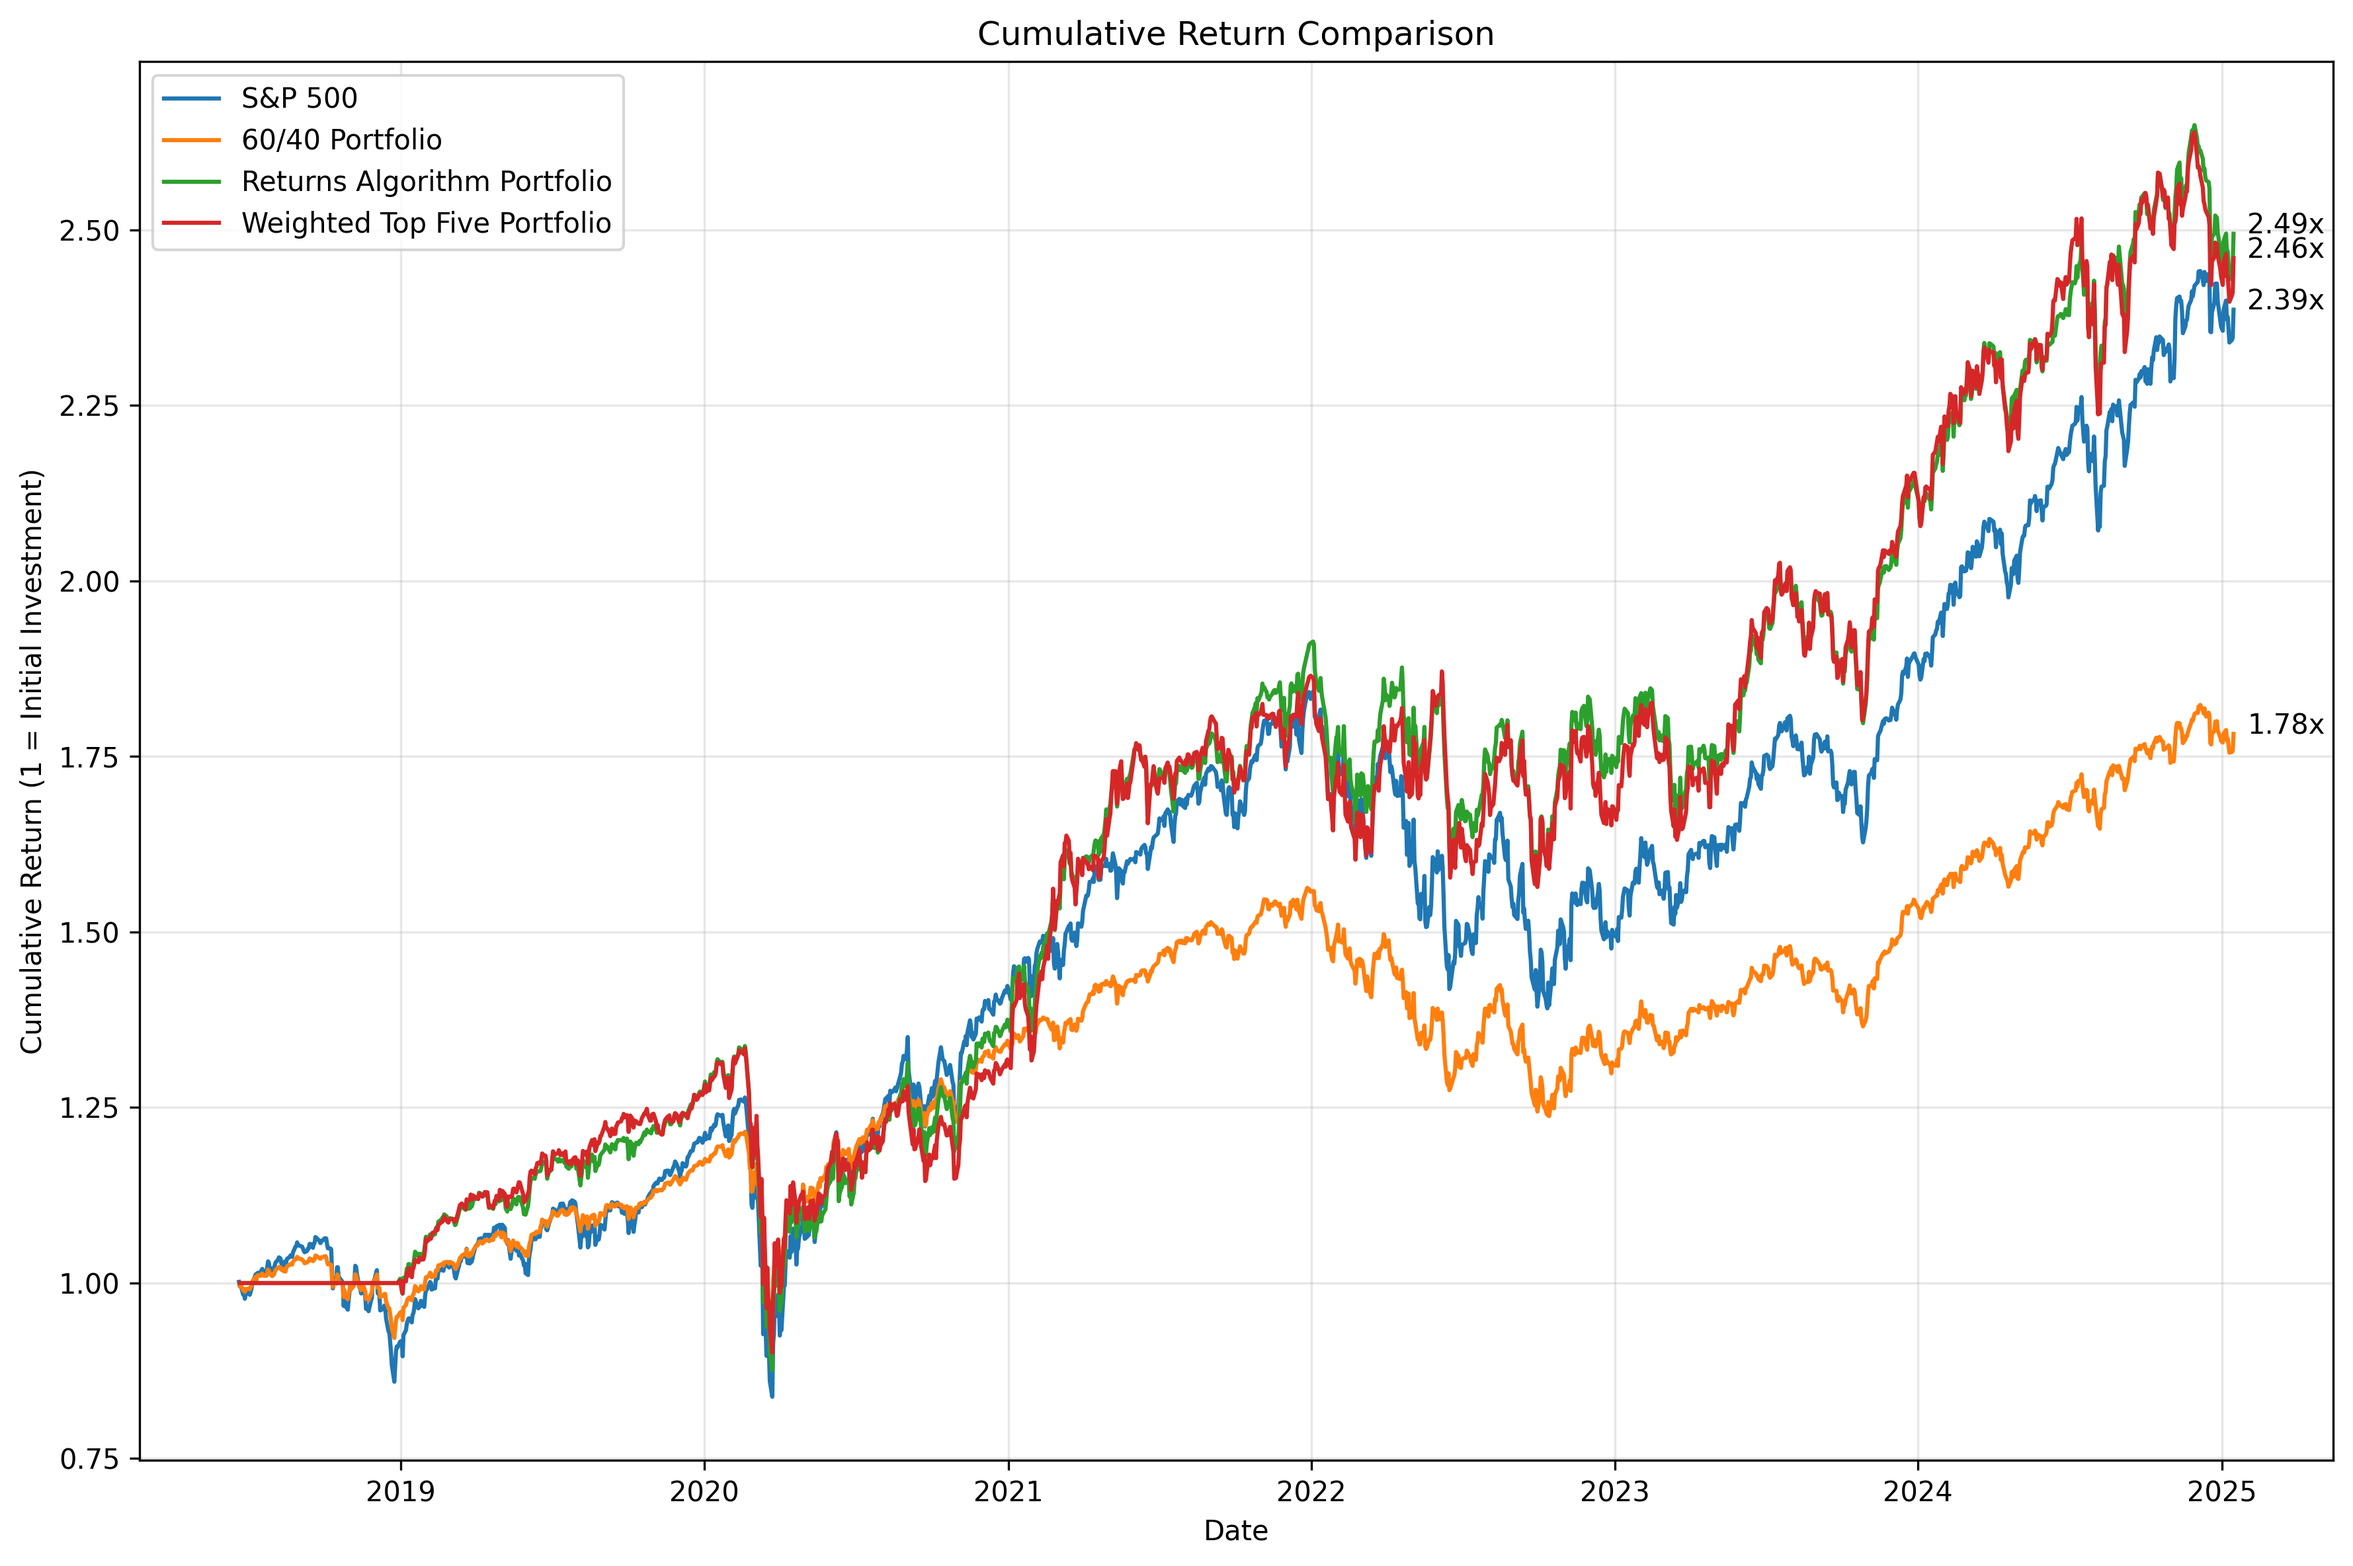
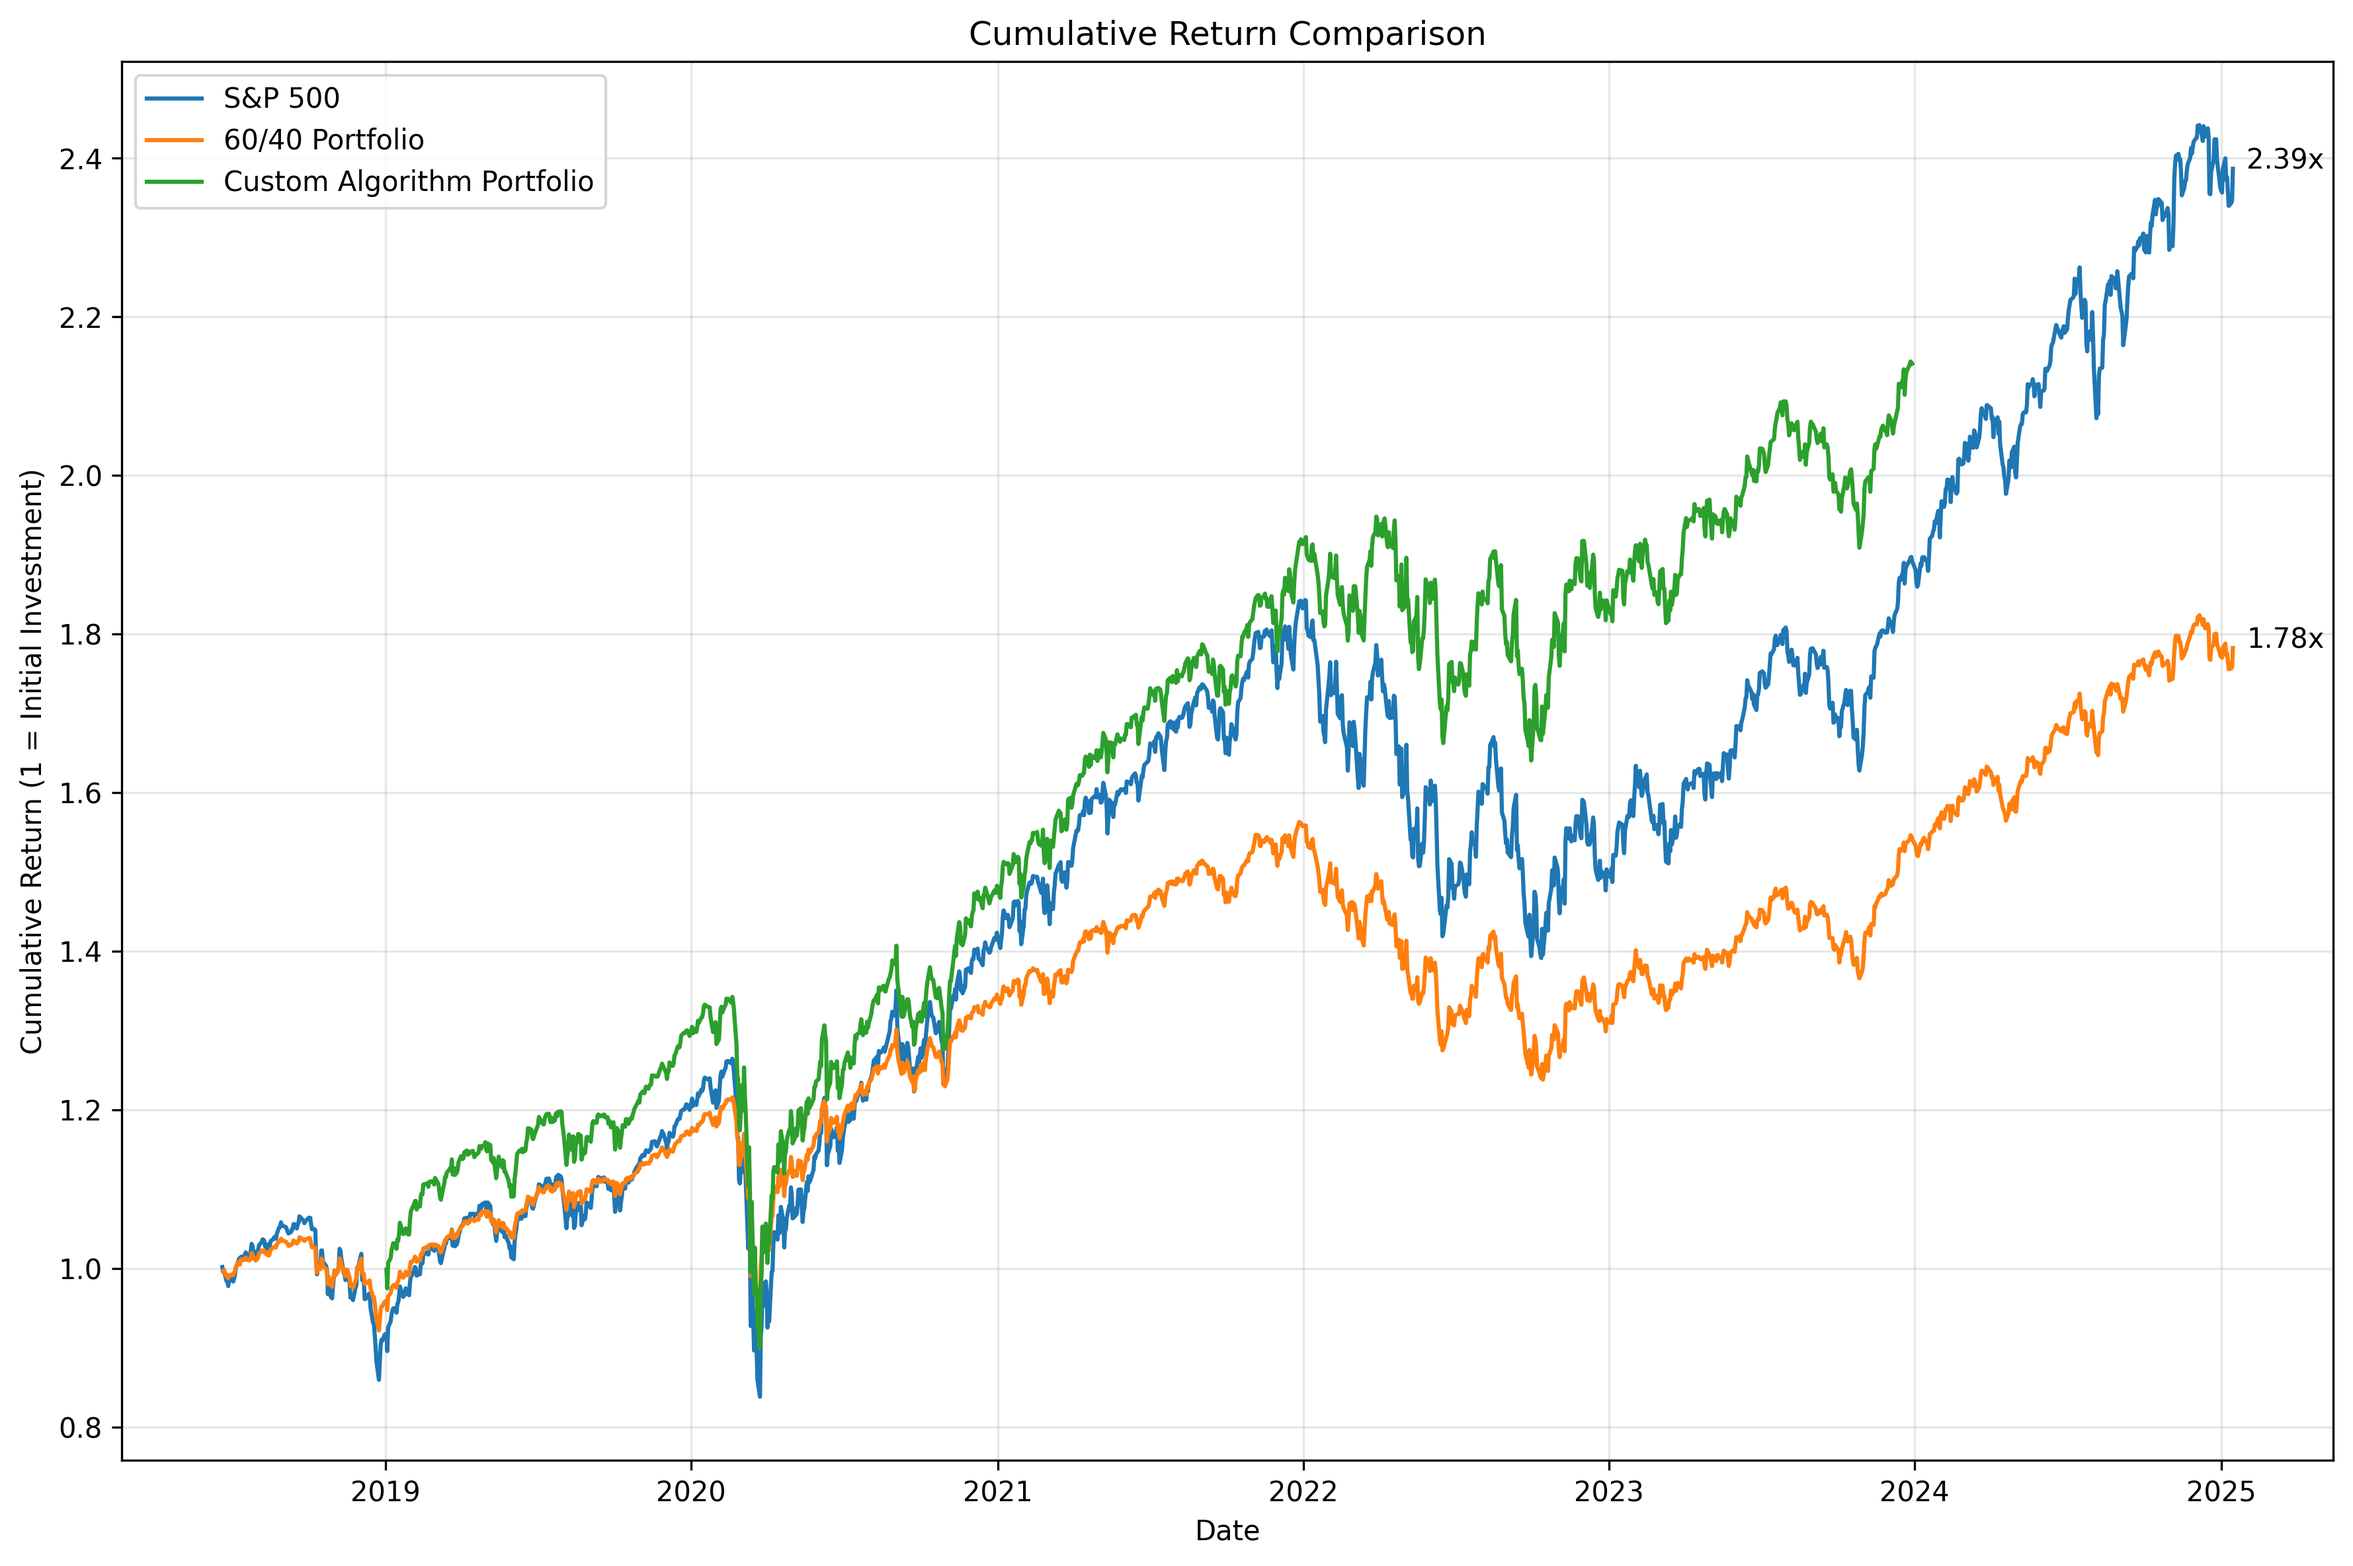
updating to properly output custom algo

diff --git a/run.py b/run.py
@@ -26,8 +26,8 @@ DEFAULT_PATHS = {
     "balanced_returns": "data/processed/balanced_returns.csv",
     # Results
     "models_dir": "results/models",
-    "ca_weights": "results/models/ca_optimal_weights.csv",
-    "ca_returns": "results/models/ca_portfolio_returns.csv",
+    "ca_weights": "results/models/fa_optimal_weights.csv",
+    "ca_returns": "results/models/fa_portfolio_returns.csv",
     "ra_returns": "results/models/returns_algorithm_portfolio.csv",  # Returns algorithm portfolio returns
     "wtf_returns": "results/models/weighted_top_five_portfolio.csv",  # Weighted Top Five portfolio returns
     # Visualizations
@@ -577,15 +577,11 @@ def run_all(args: argparse.Namespace) -> int:
             DEFAULT_PATHS["spy_returns"],
             DEFAULT_PATHS["balanced_returns"],
             DEFAULT_PATHS["ca_returns"],
-            DEFAULT_PATHS["ra_returns"],
-            DEFAULT_PATHS["wtf_returns"],
         ],
         names=[
             "S&P 500",
             "60/40 Portfolio",
             "Custom Algorithm Portfolio",
-            "Returns Algorithm Portfolio",
-            "Weighted Top Five Portfolio",
         ],
         risk_free_rate=getattr(args, "risk_free_rate", 0.02),
         output=DEFAULT_PATHS["analysis_dir"],
@@ -596,11 +592,24 @@ def run_all(args: argparse.Namespace) -> int:
         ("Preprocessing", preprocess, preprocess_args),
         ("Benchmark Generation", generate_benchmarks, benchmark_args),
         ("Custom Algorithm Optimization", optimize, optimize_args),
-        ("Returns Algorithm Optimization", run_returns_algorithm, returns_args),
-        ("Weighted Top Five Optimization", run_weighted_top_five, weighted_args),
         ("Visualization", visualize, visualize_args),
         ("Benchmark Analysis", analyze, analyze_args),
     ]
+
+    # Add optional algorithms if explicitly requested
+    if getattr(args, "include_returns", False):
+        steps.insert(
+            3, ("Returns Algorithm Optimization", run_returns_algorithm, returns_args)
+        )
+        analyze_args.files.append(DEFAULT_PATHS["ra_returns"])
+        analyze_args.names.append("Returns Algorithm Portfolio")
+
+    if getattr(args, "include_weighted", False):
+        steps.insert(
+            4, ("Weighted Top Five Optimization", run_weighted_top_five, weighted_args)
+        )
+        analyze_args.files.append(DEFAULT_PATHS["wtf_returns"])
+        analyze_args.names.append("Weighted Top Five Portfolio")
 
     for step_name, step_func, step_args in steps:
         print(f"\n{'=' * 80}\n=== Running Step: {step_name} ===\n{'=' * 80}\n")
@@ -892,14 +901,24 @@ def main() -> int:
         default=252,
         help="Lookback window in trading days for parameter estimation (default: 252 days)",
     )
+    # Add flags for optional algorithms
+    all_parser.add_argument(
+        "--include-returns",
+        action="store_true",
+        help="Include the Returns Algorithm in the analysis",
+    )
+    all_parser.add_argument(
+        "--include-weighted",
+        action="store_true",
+        help="Include the Weighted Top Five Algorithm in the analysis",
+    )
 
     # Parse arguments
     args = parser.parse_args()
 
-    # If no command specified, show help
+    # If no command specified, run 'all' by default
     if args.command is None:
-        parser.print_help()
-        return 0
+        return run_all(args)
 
     # Call the appropriate function
     command_funcs = {

diff --git a/results/analysis/benchmark_analysis.md b/results/analysis/benchmark_analysis.md
@@ -4,28 +4,27 @@
 
 ## Performance Metrics
 
-|                       | S&P 500   | 60/40 Portfolio   | Returns Algorithm Portfolio   | Weighted Top Five Portfolio   |
-|:----------------------|:----------|:------------------|:------------------------------|:------------------------------|
-| Total Return          | 138.65%   | 78.22%            | 149.46%                       | 146.00%                       |
-| Annualized Return     | 16.41%    | 10.04%            | 17.01%                        | 17.01%                        |
-| Annualized Volatility | 19.62%    | 12.25%            | 18.77%                        | 19.88%                        |
-| Sharpe Ratio          | 0.734     | 0.656             | 0.800                         | 0.755                         |
-| Jensen's Alpha        | -0.01%    | -0.47%            | 2.35%                         | 2.34%                         |
-| Beta                  | 1.00      | 0.61              | 0.86                          | 0.87                          |
-| Max Drawdown          | -33.72%   | -21.19%           | -34.53%                       | -32.51%                       |
-| Value at Risk (95%)   | -1.85%    | -1.12%            | -1.73%                        | -1.83%                        |
-| Conditional VaR (95%) | -2.99%    | -1.84%            | -2.78%                        | -2.92%                        |
-| Skewness              | -0.530    | -0.665            | -0.518                        | -0.326                        |
-| Kurtosis              | 11.954    | 14.681            | 17.183                        | 12.371                        |
+|                       | S&P 500   | 60/40 Portfolio   | Custom Algorithm Portfolio   |
+|:----------------------|:----------|:------------------|:-----------------------------|
+| Total Return          | 138.65%   | 78.22%            | 114.08%                      |
+| Annualized Return     | 16.41%    | 10.04%            | 18.73%                       |
+| Annualized Volatility | 19.62%    | 12.25%            | 19.57%                       |
+| Sharpe Ratio          | 0.734     | 0.656             | 0.855                        |
+| Jensen's Alpha        | -0.01%    | -0.47%            | 1.76%                        |
+| Beta                  | 1.00      | 0.61              | 0.91                         |
+| Max Drawdown          | -33.72%   | -21.19%           | -33.03%                      |
+| Value at Risk (95%)   | -1.85%    | -1.12%            | -1.65%                       |
+| Conditional VaR (95%) | -2.99%    | -1.84%            | -2.99%                       |
+| Skewness              | -0.530    | -0.665            | -0.525                       |
+| Kurtosis              | 11.954    | 14.681            | 15.112                       |
 
 ## Return Correlations
 
-|                             |   S&P 500 |   60/40 Portfolio |   Returns Algorithm Portfolio |   Weighted Top Five Portfolio |
-|:----------------------------|----------:|------------------:|------------------------------:|------------------------------:|
-| S&P 500                     |  1        |          0.977159 |                      0.903633 |                      0.853499 |
-| 60/40 Portfolio             |  0.977159 |          1        |                      0.88418  |                      0.834318 |
-| Returns Algorithm Portfolio |  0.903633 |          0.88418  |                      1        |                      0.97565  |
-| Weighted Top Five Portfolio |  0.853499 |          0.834318 |                      0.97565  |                      1        |
+|                            |   S&P 500 |   60/40 Portfolio |   Custom Algorithm Portfolio |
+|:---------------------------|----------:|------------------:|-----------------------------:|
+| S&P 500                    |  1        |          0.977159 |                     0.977352 |
+| 60/40 Portfolio            |  0.977159 |          1        |                     0.94943  |
+| Custom Algorithm Portfolio |  0.977352 |          0.94943  |                     1        |
 
 ## Benchmark Descriptions
 
@@ -37,11 +36,7 @@ Market benchmark used for calculating Beta and Jensen's Alpha.
 
 Portfolio or benchmark returns series.
 
-### Returns Algorithm Portfolio
-
-Portfolio or benchmark returns series.
-
-### Weighted Top Five Portfolio
+### Custom Algorithm Portfolio
 
 Portfolio or benchmark returns series.
 
